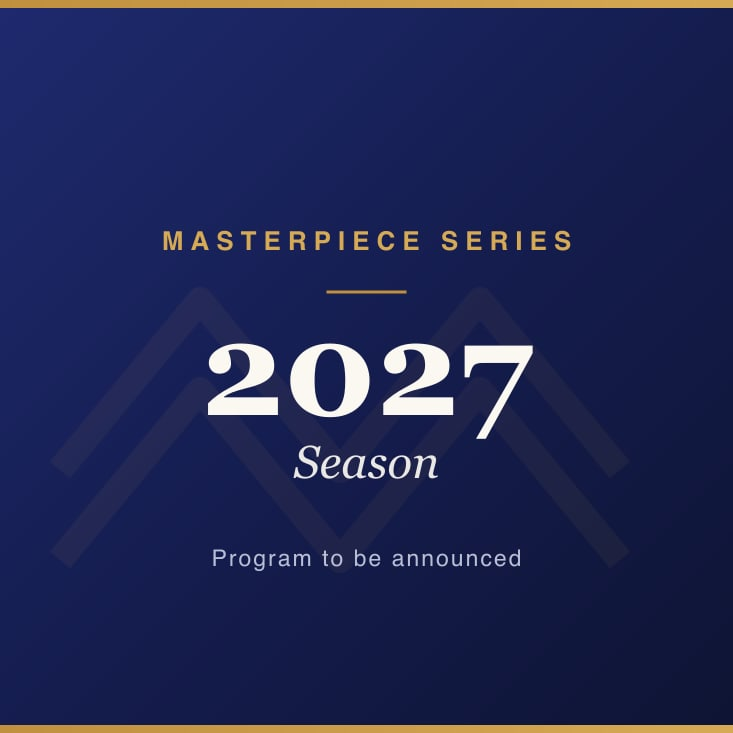
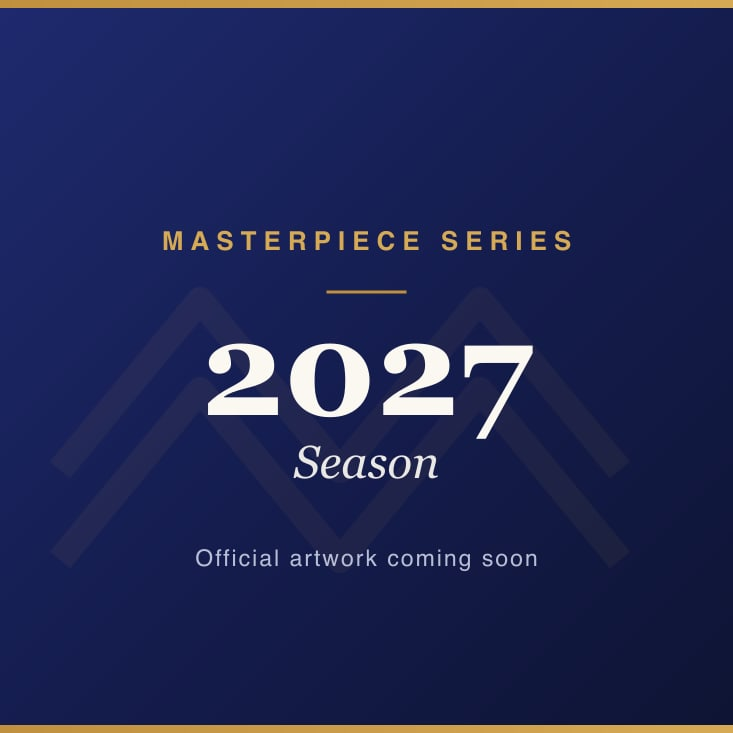
content(concerts): real 2027 season from the renewal programming sheet
Replaces the six month-named placeholders with the announced 2027 Masterpiece
Series ("2027 Programming for renewal.docx"): Best of Tchaikovsky (Jan 30-31),
Chopin Second w/ Andrew von Oeyen (Mar 6-7), Rossini Meets Beethoven w/ NWS
Chorus (Apr 10-11), Star Wars (Oct 9-10), Beethoven in Havana w/ Joachim
Horsley (Nov 6-7), Winter Wonderland w/ NWS Chorus + Los Robles Children's
Choir (Dec 4-5). Dates differ from the placeholders for Tchaikovsky and Star
Wars; all verified Sat 7PM BAPAC / Sun 3PM RCPAC in Pacific time, including
the Nov 6 PDT / Nov 7 PST straddle.

- guests is now optional; the Guests line renders only when set (Tchaikovsky
  and Star Wars are orchestra-only).
- "Save the date" eyebrow keys off ticketsComingSoon, not tbc — programs are
  announced now, but tickets still aren't on sale (coming-soon + PreOrder kept).
- Old month slugs 301 to the new ones in case beta links were shared.
- The renewal sheet lists the Tchaikovsky Violin Concerto as "Op. 64" (the
  Fifth Symphony's opus; the concerto is Op. 35) — opus omitted rather than
  reproducing the typo.
- Shared TBA poster re-captioned "Official artwork coming soon" (programs are
  no longer TBA).

Changed region(s): [[0.2701, 0.7503, 0.7503, 0.7804]]

diff --git a/lib/data/concerts.ts b/lib/data/concerts.ts
@@ -30,14 +30,9 @@ export const PRICE_TIERS: PriceTier[] = [
  *  placeholders share one "artwork to come" card). */
 type SeasonEntry = Omit<Concert, "poster"> & { poster?: string };
 
-/* Shared stand-ins for the unannounced 2027 season. Kept as named constants so
-   a real announcement is a per-concert edit, and so nothing here can be mistaken
-   for confirmed programming. */
+/* Shared "artwork to come" poster for the 2027 season — swap per concert once
+   NWS supplies the official art. */
 const TBA_POSTER_2027 = "/assets/concerts/poster-tba-2027.jpg";
-const TBA_CONDUCTOR = "Conductor to be announced";
-const TBA_GUESTS = "Guest artists to be announced";
-const TBA_PROGRAM = "Program to be announced.";
-const TBA_PROGRAM_LIST = ["Program to be announced"];
 
 const SEASON: SeasonEntry[] = [
   {
@@ -211,46 +206,55 @@ const SEASON: SeasonEntry[] = [
   },
 
   /**
-   * 2027 Masterpiece Series — PLACEHOLDERS. Nothing here is announced: titles
-   * are the month, and conductor / guests / program are all TBA. Replace each
-   * as NWS confirms it (title, slug, poster, image, programList, blurb, tbc).
+   * The 2027 Masterpiece Series, from NWS's renewal programming sheet
+   * ("2027 Programming for renewal.docx", July 2026): six Saturday evenings
+   * 7 PM at BAPAC (Thousand Oaks) + six Sunday afternoons 3 PM at RCPAC
+   * (Camarillo). "All programming, guest artists and dates subject to change."
    *
-   * Dates mirror the 2026 weekends. They are NOT the same calendar dates: every
-   * 2026 Saturday falls on a Sunday in 2027, so each weekend is shifted by one
-   * day (+364 days) to keep the Saturday-Thousand Oaks / Sunday-Camarillo
-   * pattern. Offsets follow US Pacific DST in 2027 (starts Mar 14, ends Nov 7)
-   * — note the Nov weekend straddles the change: Sat is PDT, Sun is PST.
+   * Offsets follow US Pacific DST in 2027 (starts Mar 14, ends Nov 7) — the
+   * November weekend straddles the change: Sat is PDT, Sun is PST.
+   *
+   * Tickets are not on sale yet (ticketsComingSoon); official 2027 artwork is
+   * pending, so all six share the TBA poster. The renewal sheet lists the
+   * Tchaikovsky Violin Concerto as "Op. 64" — that opus is the Fifth Symphony's
+   * and the concerto is Op. 35, so the opus is omitted here rather than
+   * reproducing the typo.
    */
   {
-    slug: "2027-january",
-    title: "January 2027",
+    slug: "best-of-tchaikovsky",
+    title: "Best of Tchaikovsky",
     series: "Masterpiece Series",
     tag: "Masterpiece",
     season: 2027,
     image: "/assets/photos/orchestra-performance.jpg",
     poster: TBA_POSTER_2027,
     ticketsComingSoon: true,
-    dateLabel: "Jan 23 & 24, 2027",
-    railDate: { month: "JAN", day: "23", weekday: "Sat" },
+    dateLabel: "Jan 30 & 31, 2027",
+    railDate: { month: "JAN", day: "30", weekday: "Sat" },
     timeLabel: "Sat 7 PM · Sun 3 PM",
     performances: [
-      { startDate: "2027-01-23T19:00:00-08:00", venueKey: "to", timeLabel: "Sat 7 PM" },
-      { startDate: "2027-01-24T15:00:00-08:00", venueKey: "cam", timeLabel: "Sun 3 PM" },
+      { startDate: "2027-01-30T19:00:00-08:00", venueKey: "to", timeLabel: "Sat 7 PM" },
+      { startDate: "2027-01-31T15:00:00-08:00", venueKey: "cam", timeLabel: "Sun 3 PM" },
     ],
     venueKeys: ["to", "cam"],
     venuesLabel: "Thousand Oaks · Camarillo",
-    conductor: TBA_CONDUCTOR,
-    guests: TBA_GUESTS,
-    program: TBA_PROGRAM,
-    programList: TBA_PROGRAM_LIST,
+    conductor: "Michael Christie, conductor",
+    program:
+      "Musical favorites of Tchaikovsky — 1812 Overture, The Nutcracker, Swan Lake & more",
+    programList: [
+      "Tchaikovsky — 1812 Overture",
+      "Tchaikovsky — Music from The Nutcracker & Swan Lake",
+      "Tchaikovsky — Violin Concerto in D Major: Allegro vivacissimo",
+      "Tchaikovsky — Souvenir de Florence: Allegro moderato",
+      "Tchaikovsky — Symphony No. 5 in E Minor, Op. 64: Finale",
+    ],
     blurb:
-      "The 2027 Masterpiece Series opens in January. The program, conductor, and guest artists will be announced — save the date.",
+      "Three ballets, five concertos, seven symphonies, ten operas — it's hard to pick a favorite. Michael Christie leads a grand tour through the popular works of one of music's most revered and prolific composers.",
     priceTiers: PRICE_TIERS,
-    tbc: true,
   },
   {
-    slug: "2027-march",
-    title: "March 2027",
+    slug: "chopin-second",
+    title: "Chopin Second",
     series: "Masterpiece Series",
     tag: "Masterpiece",
     season: 2027,
@@ -266,18 +270,22 @@ const SEASON: SeasonEntry[] = [
     ],
     venueKeys: ["to", "cam"],
     venuesLabel: "Thousand Oaks · Camarillo",
-    conductor: TBA_CONDUCTOR,
-    guests: TBA_GUESTS,
-    program: TBA_PROGRAM,
-    programList: TBA_PROGRAM_LIST,
+    conductor: "Michael Christie, conductor",
+    guests: "Andrew von Oeyen, piano",
+    program: "Chopin: Piano Concerto No. 2 · Beethoven: Symphony No. 2",
+    programList: [
+      "Chopin — Piano Concerto No. 2 in F Minor, Op. 21",
+      "Bacewicz — Concerto for String Orchestra",
+      "Lutosławski — Six Children's Songs",
+      "Beethoven — Symphony No. 2 in D Major, Op. 36",
+    ],
     blurb:
-      "A March weekend with the orchestra in Thousand Oaks and Camarillo. The program, conductor, and guest artists will be announced — save the date.",
+      "Chopin's poetic Second Piano Concerto meets the early Beethoven symphony that spoke to his classical instincts — with internationally renowned, Malibu-based virtuoso Andrew von Oeyen at the piano and Polish masterworks in between.",
     priceTiers: PRICE_TIERS,
-    tbc: true,
   },
   {
-    slug: "2027-april",
-    title: "April 2027",
+    slug: "rossini-meets-beethoven",
+    title: "Rossini Meets Beethoven",
     series: "Masterpiece Series",
     tag: "Masterpiece",
     season: 2027,
@@ -293,45 +301,50 @@ const SEASON: SeasonEntry[] = [
     ],
     venueKeys: ["to", "cam"],
     venuesLabel: "Thousand Oaks · Camarillo",
-    conductor: TBA_CONDUCTOR,
-    guests: TBA_GUESTS,
-    program: TBA_PROGRAM,
-    programList: TBA_PROGRAM_LIST,
+    conductor: "Michael Christie, conductor",
+    guests: "New West Symphony Chorus",
+    program:
+      "Rossini: The Barber of Seville & William Tell · Beethoven: “Ode to Joy”",
+    programList: [
+      "Rossini — Overture to The Barber of Seville",
+      "Rossini — Scenes from The Barber of Seville",
+      "Rossini — Overture to William Tell",
+      "Beethoven — Symphony No. 9 in D Minor, Op. 125, IV: “Ode to Joy”",
+    ],
     blurb:
-      "The spring Masterpiece weekend. The program, conductor, and guest artists will be announced — save the date.",
+      "Two musical titans who admired each other from very different lives — one feted in grand palaces, the other working away in a leaking attic. Rossini's pinnacle overtures beside the immortal “Ode to Joy” finale of Beethoven's Ninth.",
     priceTiers: PRICE_TIERS,
-    tbc: true,
   },
   {
-    slug: "2027-october",
-    title: "October 2027",
+    slug: "star-wars",
+    title: "Star Wars",
     series: "Masterpiece Series",
     tag: "Masterpiece",
     season: 2027,
     image: "/assets/photos/orchestra-performance.jpg",
     poster: TBA_POSTER_2027,
     ticketsComingSoon: true,
-    dateLabel: "Oct 2 & 3, 2027",
-    railDate: { month: "OCT", day: "2", weekday: "Sat" },
+    dateLabel: "Oct 9 & 10, 2027",
+    railDate: { month: "OCT", day: "9", weekday: "Sat" },
     timeLabel: "Sat 7 PM · Sun 3 PM",
     performances: [
-      { startDate: "2027-10-02T19:00:00-07:00", venueKey: "to", timeLabel: "Sat 7 PM" },
-      { startDate: "2027-10-03T15:00:00-07:00", venueKey: "cam", timeLabel: "Sun 3 PM" },
+      { startDate: "2027-10-09T19:00:00-07:00", venueKey: "to", timeLabel: "Sat 7 PM" },
+      { startDate: "2027-10-10T15:00:00-07:00", venueKey: "cam", timeLabel: "Sun 3 PM" },
     ],
     venueKeys: ["to", "cam"],
     venuesLabel: "Thousand Oaks · Camarillo",
-    conductor: TBA_CONDUCTOR,
-    guests: TBA_GUESTS,
-    program: TBA_PROGRAM,
-    programList: TBA_PROGRAM_LIST,
+    conductor: "Michael Christie, conductor",
+    program: "John Williams' music from all nine episodes of the Skywalker saga",
+    programList: [
+      "Williams — Music from The Phantom Menace, Attack of the Clones, Revenge of the Sith, A New Hope, The Empire Strikes Back, Return of the Jedi, The Force Awakens, The Last Jedi, and The Rise of Skywalker",
+    ],
     blurb:
-      "The autumn season opener. The program, conductor, and guest artists will be announced — save the date.",
+      "It's hard to believe Star Wars premiered 50 years ago in 1977 — relive all nine episodes of the Skywalker saga in two hours of John Williams' Academy Award, BAFTA, Golden Globe, Grammy, and Saturn award-winning scores.",
     priceTiers: PRICE_TIERS,
-    tbc: true,
   },
   {
-    slug: "2027-november",
-    title: "November 2027",
+    slug: "beethoven-in-havana",
+    title: "Beethoven in Havana",
     series: "Masterpiece Series",
     tag: "Masterpiece",
     season: 2027,
@@ -348,20 +361,24 @@ const SEASON: SeasonEntry[] = [
     ],
     venueKeys: ["to", "cam"],
     venuesLabel: "Thousand Oaks · Camarillo",
-    conductor: TBA_CONDUCTOR,
-    guests: TBA_GUESTS,
-    program: TBA_PROGRAM,
-    programList: TBA_PROGRAM_LIST,
+    conductor: "Michael Christie, conductor",
+    guests: "Joachim Horsley, piano",
+    program: "Horsley: Beethoven in Havana · Beethoven: Symphony No. 7",
+    programList: [
+      "Key / Smith — The Star-Spangled Banner",
+      "Wendel — Armed Forces March",
+      "Horsley — Beethoven in Havana",
+      "Beethoven — Symphony No. 7 in A Major, Op. 92",
+    ],
     blurb:
-      "A November weekend with the orchestra. The program, conductor, and guest artists will be announced — save the date.",
+      "Beethoven's joyful Seventh Symphony and a tribute to American military veterans — with Latin Grammy-nominated composer-pianist Joachim Horsley bringing Classical and Afro-Caribbean cultures together with utter delight.",
     priceTiers: PRICE_TIERS,
-    tbc: true,
   },
   {
-    slug: "2027-december",
-    title: "December 2027",
+    slug: "winter-wonderland",
+    title: "Winter Wonderland",
     series: "Masterpiece Series",
-    tag: "Masterpiece",
+    tag: "Holiday",
     season: 2027,
     image: "/assets/photos/orchestra-performance.jpg",
     poster: TBA_POSTER_2027,
@@ -375,14 +392,16 @@ const SEASON: SeasonEntry[] = [
     ],
     venueKeys: ["to", "cam"],
     venuesLabel: "Thousand Oaks · Camarillo",
-    conductor: TBA_CONDUCTOR,
-    guests: TBA_GUESTS,
-    program: TBA_PROGRAM,
-    programList: TBA_PROGRAM_LIST,
+    conductor: "Michael Christie, conductor",
+    guests: "New West Symphony Chorus · Los Robles Children's Choir",
+    program: "Winter Spectacular — symphonic favorites meet holiday spirit",
+    programList: [
+      "Winter-inspired symphonic favorites and holiday classics",
+      "Featuring the New West Symphony Chorus and Los Robles Children's Choir",
+    ],
     blurb:
-      "The season closes in December. The program, conductor, and guest artists will be announced — save the date.",
+      "An annual New West Symphony holiday favorite — winter-inspired symphonic favorites meet holiday spirit in a program to launch the season, featuring the New West Symphony Chorus and Los Robles Children's Choir.",
     priceTiers: PRICE_TIERS,
-    tbc: true,
   },
 ];
 

diff --git a/components/sections/VenueFilter.tsx b/components/sections/VenueFilter.tsx
@@ -154,9 +154,9 @@ export default function VenueFilter({
             style={{ marginBottom: "var(--space-9)" }}
           >
             <div className="section-heading" style={{ marginBottom: "var(--space-6)" }}>
-              {/* A season with nothing confirmed yet is a save-the-date, not a sale. */}
+              {/* A season whose tickets aren't on sale is a save-the-date, not a sale. */}
               <div className="section-heading__eyebrow">
-                {concerts.every((c) => c.tbc) ? "Save the date" : "On sale now"}
+                {concerts.every((c) => c.ticketsComingSoon) ? "Save the date" : "On sale now"}
               </div>
               <hr className="section-heading__rule" />
               <h2 className="section-heading__title" id={`season-${season}-heading`}>

diff --git a/lib/redirects.ts b/lib/redirects.ts
@@ -799,6 +799,30 @@ export const LEGACY_PREFIX: { source: string; destination: string }[] = [
   {
     "source": "/music-education",
     "destination": "/education"
+  },
+  {
+    "source": "/concerts/2027-january",
+    "destination": "/concerts/best-of-tchaikovsky"
+  },
+  {
+    "source": "/concerts/2027-march",
+    "destination": "/concerts/chopin-second"
+  },
+  {
+    "source": "/concerts/2027-april",
+    "destination": "/concerts/rossini-meets-beethoven"
+  },
+  {
+    "source": "/concerts/2027-october",
+    "destination": "/concerts/star-wars"
+  },
+  {
+    "source": "/concerts/2027-november",
+    "destination": "/concerts/beethoven-in-havana"
+  },
+  {
+    "source": "/concerts/2027-december",
+    "destination": "/concerts/winter-wonderland"
   }
 ];
 

diff --git a/app/concerts/[slug]/page.tsx b/app/concerts/[slug]/page.tsx
@@ -128,9 +128,11 @@ export default async function ConcertDetailPage({
                 <li key={line}>{line}</li>
               ))}
             </ul>
-            <p className="lead">
-              <strong>Guests:</strong> {concert.guests}
-            </p>
+            {concert.guests && (
+              <p className="lead">
+                <strong>Guests:</strong> {concert.guests}
+              </p>
+            )}
             <div className="insight-note">
               <strong>Intermission Insights:</strong> join us one hour before curtain for a free
               pre-concert talk — the music makes more sense, and it&rsquo;s more fun.

diff --git a/lib/data/types.ts b/lib/data/types.ts
@@ -55,7 +55,8 @@ export interface Concert {
   venueKeys: VenueKey[];
   venuesLabel: string;
   conductor: string;
-  guests: string;
+  /** Guest artists / featured ensembles. Omit when the orchestra performs alone. */
+  guests?: string;
   program: string;
   /** Program broken into bullet lines for the detail page. */
   programList: string[];
